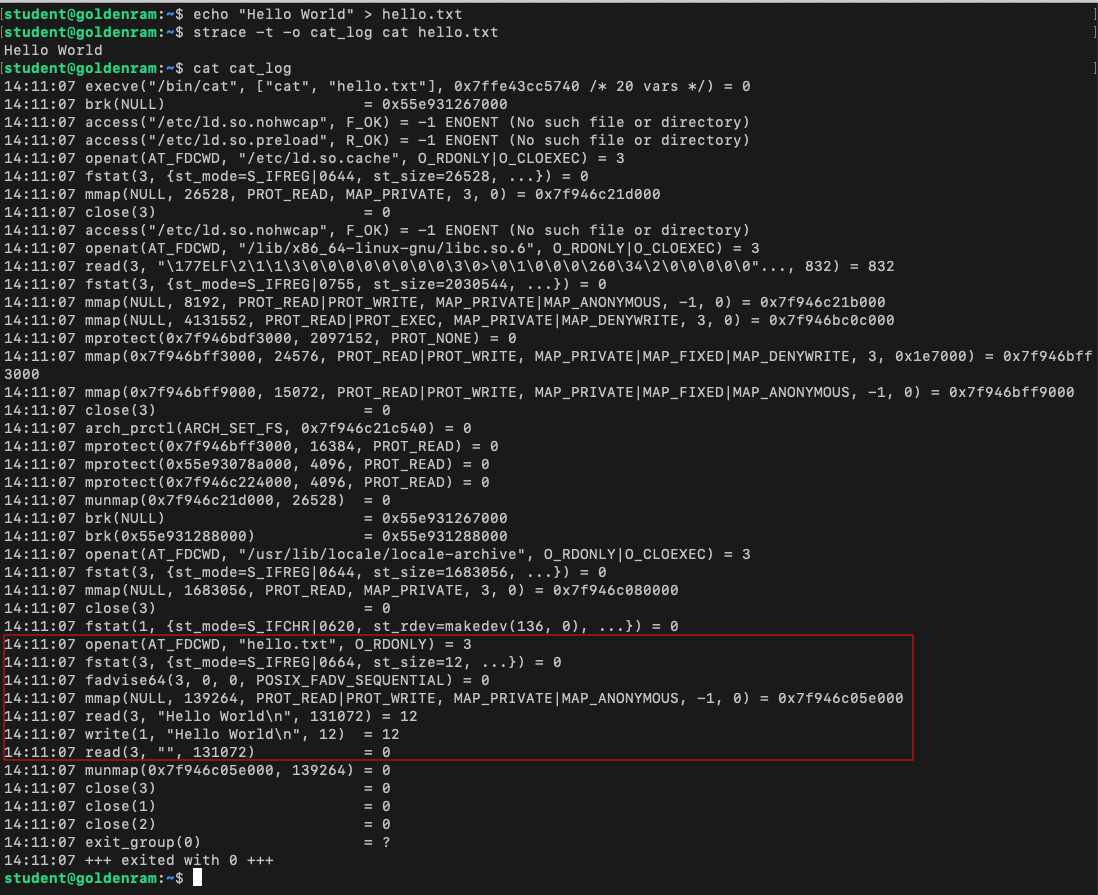
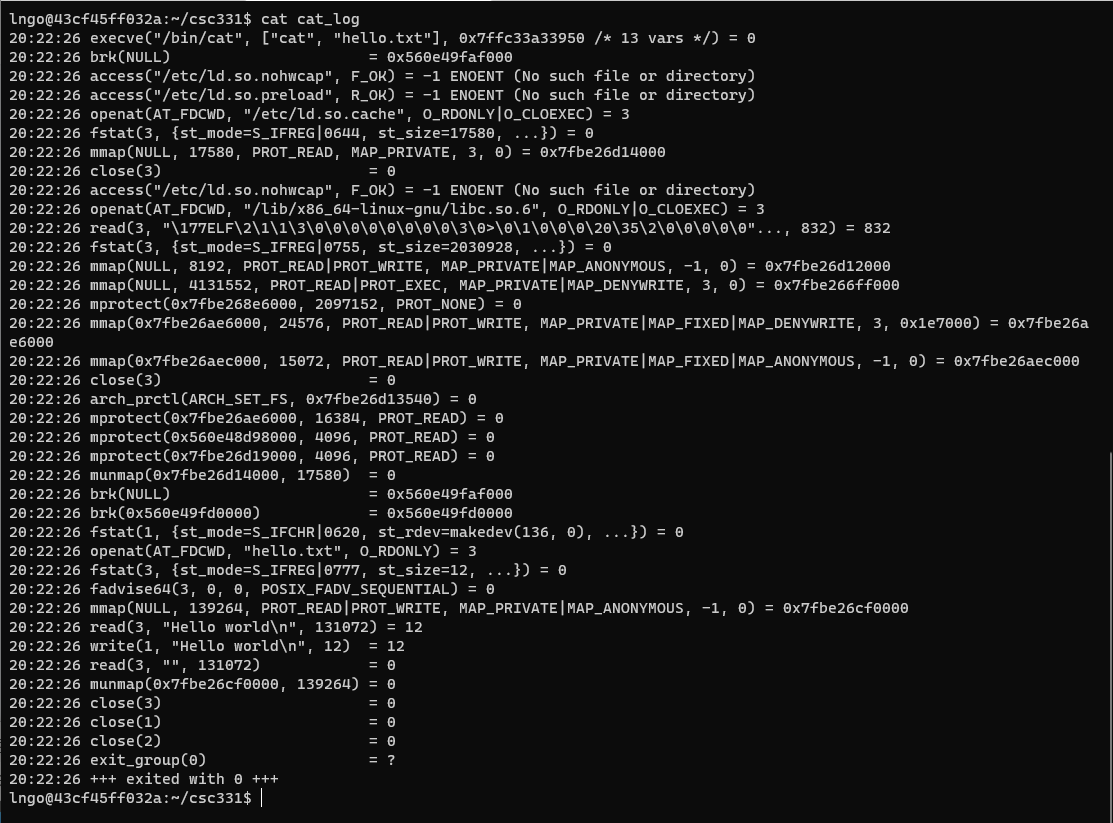
update file_system

diff --git a/_episodes/14-file-systems.md b/_episodes/14-file-systems.md
@@ -96,15 +96,32 @@ keypoints:
 
 > ## 6. Hands on: file operations
 >
-> - Start your `csc331` VM in headless mode. 
-> - SSH into the VM VM (command: `ssh -p 2222 student@127.0.0.1` password: `goldenram`).
-> - Run the following commands:
+> - Before turning on the VM, makes sure that you have two processors assigned
+> to your VM. 
+>
+> - Open a terminal (Windows Terminal or Mac Terminal). 
+> - Run the command to launch the image container for your platform:
+> - Windows:
 > 
+> ~~~
+> $ podman run --rm --userns keep-id --cap-add=SYS_PTRACE --security-opt seccomp=unconfined -it -v /mnt/c/csc331:/home/$USER/csc331:Z localhost/csc-container /bin/bash
+> ~~~
+> {: .language-bash}
+>
+> - Mac:
+>
+> ~~~
+> $ docker run --rm --userns=host --cap-add=SYS_PTRACE --security-opt seccomp=unconfined -it -v /Users/$USER/csc331:/home/$USER/csc331:Z csc-container /bin/bash
+> ~~~
+> {: .language-bash}
+>
+> - Root password: `goldenrams`
+>
 > ~~~
 > $ sudo apt-get install -y strace
 > $ echo "Hello World" > hello.txt
 > $ strace -t -o cat_log cat hello.txt 
-> $ head cat_log
+> $ cat cat_log
 > ~~~ 
 > {: .language-bash}
 > 
